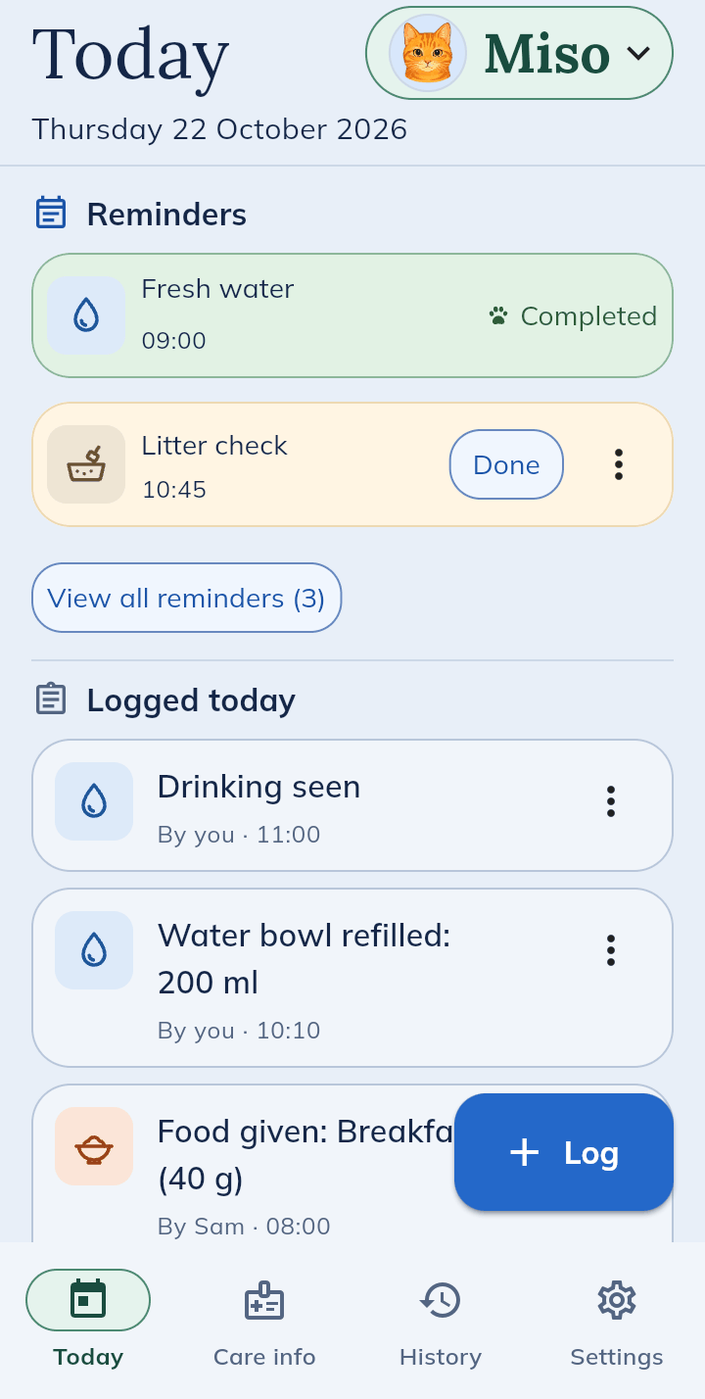
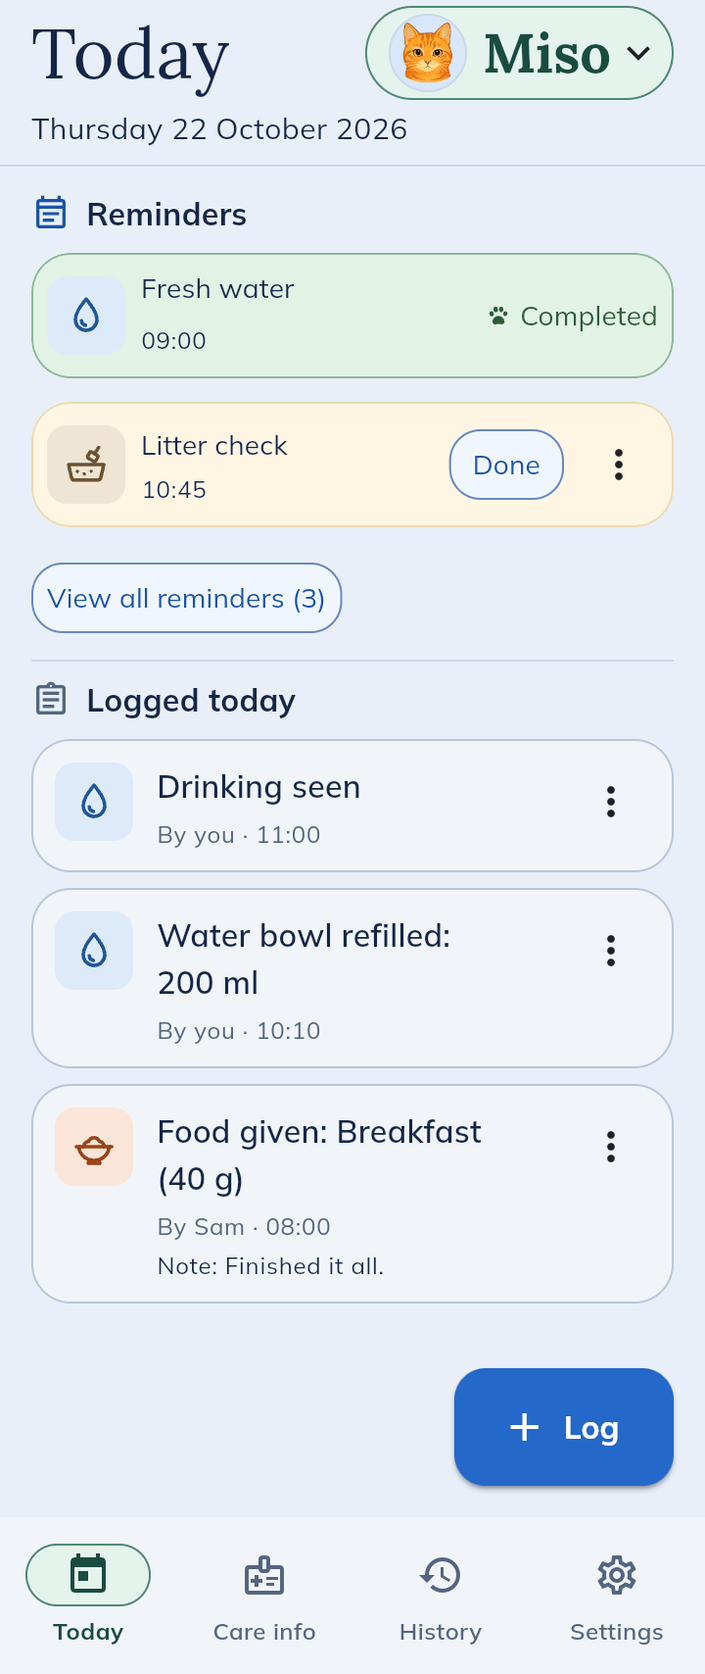
Let testers choose a real or made-up cat and tidy the journey
Testers may use their own cat or a made-up one, with a brief note that
records should carry over but nothing is guaranteed. The status box drops
its date, the test page states the one-day reply once, the guide gets its
friendlier voice back, the week section keeps two moments, the joining page
names the invitation sender, and the hero capture no longer hides a row
under the Log button.

diff --git a/test.html b/test.html
@@ -13,12 +13,12 @@
 <a class="skip" href="#main">Skip to content</a>
 <header class="site-header"><div class="wrap header-inner"><a class="brand" href="index.html" aria-label="OurCat home">OurCat<span aria-hidden="true">.</span></a><nav aria-label="Main navigation"><a href="test.html" aria-current="page">Try OurCat</a><a href="feedback.html">Feedback</a><a href="support.html">Help</a></nav></div></header>
 <main id="main" tabindex="-1" class="wrap reading">
-<div class="page-intro"><h1>Try OurCat on Android</h1><p class="lead">Record your cat’s care and see what your partner or cat-sitter has done. Try it with a made-up cat.</p></div>
-<p class="status"><time datetime="2026-10-23">23 October</time> Taking requests for free Android early access. I’ll reply within a day and send your invitation when the test is ready.</p>
+<div class="page-intro"><h1>Try OurCat on Android</h1><p class="lead">Record your cat’s care and see what your partner or cat-sitter has done. Use your own cat or a made-up one.</p></div>
+<p class="status"><strong>Early access requests are open</strong> It’s free, and invitations go out when the test build is ready.</p>
 <p class="eligibility"><strong>Android with Google Play · Ages 16+</strong><br>Your Google Play country must be the UK, US, Canada or Australia.</p><div class="actions"><a class="button" href="https://docs.google.com/forms/d/e/1FAIpQLSfE7T2NDWCrKjbO0EXnv6gYh4boQH9e-d9MlrtzAwvURb2s_Q/viewform">Request an invitation <span aria-hidden="true">↗</span></a></div><p class="fine">A short Google Form, no sign-in needed. Prefer email? <a href="mailto:mycatapps@gmail.com?subject=OurCat%20test%20invitation&amp;body=Google%20Play%20account%20email%3A%20%0AGoogle%20Play%20country%3A%20%0AAndroid%20phone%20with%20Google%20Play%20%28yes/no%29%3A%20%0AAged%2016%20or%20over%20%28yes/no%29%3A%20%0A%0AOptional%20question%3A%20">Write to me instead</a>.</p><p class="small"><a href="index.html#app-preview">See the app</a> <span class="separator" aria-hidden="true">·</span> Already have an invitation? <a href="join.html">Follow the joining steps.</a></p>
-<section class="section"><h2>What happens next</h2><ol class="steps"><li><h3>Send a request</h3><p>Tell me the email you use for Google Play, then answer a few quick questions about your phone, country and age.</p><p class="step-aside">Testing with a partner or cat-sitter? They need their own Android phone and their own request. Mention each other in the form’s optional question and I’ll invite you together.</p></li><li><h3>Hear back within a day</h3><p>I’ll confirm your request by email within a day. When the test build is ready, I’ll add your email to the private tester list and send everyone the joining link. Sending the form doesn’t install anything or enrol you yet.</p></li><li><h3>Try it when it suits you</h3><p>Start with a made-up cat and a care record. Send feedback whenever you have something to share.</p></li></ol></section>
+<section class="section"><h2>What happens next</h2><ol class="steps"><li><h3>Send a request</h3><p>Tell me the email you use for Google Play, then answer a few quick questions about your phone, country and age.</p><p class="step-aside">Testing with a partner or cat-sitter? They need their own Android phone and their own request. Mention each other in the form’s optional question and I’ll invite you together.</p></li><li><h3>Hear back within a day</h3><p>I’ll email to say I’ve got your request. When the test build is ready, I’ll add your email to the private tester list and send everyone the joining link. Sending the form doesn’t install anything or enrol you yet.</p></li><li><h3>Try it when it suits you</h3><p>Add your cat, or a made-up one, and record something. Send feedback whenever you have something to share.</p></li></ol></section>
 <section class="section"><h2>How much is involved?</h2><p>If you can, stay opted in to the Google Play test for <strong>14 days in a row</strong> and try the app during that time. You don’t need to open it every day or leave a positive review.</p><p>A few thoughts in your own words are enough. The <a href="guide.html">optional things to try</a> cover reminders and shared care.</p><p>Testing is free, voluntary and unpaid. Joining doesn’t start a subscription, and you can stop at any time.</p></section>
-<section class="section"><h2>Questions people ask</h2><details><summary>Do I need to use real information?</summary><div class="answer"><p>No. A made-up cat and made-up care records are enough. Please don’t add real medication details or other people’s contact details just for testing.</p></div></details><details><summary>How long does early access last?</summary><div class="answer"><p>There’s no fixed end date. The plan is for your account and records to carry over into the public app. I can’t promise a launch date or that the service will never be interrupted, but I’ll tell you before your access changes.</p></div></details><details><summary>Can I test with someone I share care with?</summary><div class="answer"><p>Yes, please. Sharing is the bit I most want to see working in real life. Each of you needs an Android phone with Google Play and your own request, using your own Google Play email. Once you’re both in, one of you invites the other from the app.</p></div></details><details><summary>I have an iPhone. Can I take part?</summary><div class="answer"><p>Not yet, sorry. OurCat is Android-only for now. If you share care with someone, you’ll both need Android to try sharing together.</p></div></details><details><summary>Can I test if I don’t have a cat?</summary><div class="answer"><p>Yes. You can try everything I ask with a made-up cat.</p></div></details><details><summary>What if I’m outside the eligible countries or need help?</summary><div class="answer"><p>Email <a href="mailto:mycatapps@gmail.com">mycatapps@gmail.com</a>. I can help with questions, but can’t promise access outside the current test countries.</p></div></details></section>
+<section class="section"><h2>Questions people ask</h2><details><summary>Can I use my real cat?</summary><div class="answer"><p>Yes, it’s up to you. Your own cat or a made-up one both work. It’s a test version, so I can’t guarantee nothing will be lost, but I’ll do my best to keep your records, and the plan is that you carry on using the app as normal once it’s public.</p></div></details><details><summary>How long does early access last?</summary><div class="answer"><p>There’s no fixed end date. I can’t promise a launch date or that the service will never be interrupted, but I’ll tell you before your access changes.</p></div></details><details><summary>Can I test with someone I share care with?</summary><div class="answer"><p>Yes, please. Sharing is the bit I most want to see working in real life. Each of you needs an Android phone with Google Play and your own request, using your own Google Play email. Once you’re both in, one of you invites the other from the app.</p></div></details><details><summary>I have an iPhone. Can I take part?</summary><div class="answer"><p>Not yet, sorry. OurCat is Android-only for now. If you share care with someone, you’ll both need Android to try sharing together.</p></div></details><details><summary>Can I test if I don’t have a cat?</summary><div class="answer"><p>Yes. A made-up cat works for everything I ask.</p></div></details><details><summary>What if I’m outside the eligible countries or need help?</summary><div class="answer"><p>Email <a href="mailto:mycatapps@gmail.com">mycatapps@gmail.com</a>. I can help with questions, but can’t promise access outside the current test countries.</p></div></details></section>
 <aside class="note"><h2>Your request stays private</h2><p>I use your answers to arrange this test. Google Forms stores them in the OurCat account; they aren’t published. You can <a href="privacy.html#test-forms">read about the forms</a> or email me to withdraw your request.</p></aside><p class="fine">OurCat isn’t a veterinary or emergency service. Keep your usual care arrangements for anything urgent.</p>
 
 </main>

diff --git a/index.html b/index.html
@@ -14,11 +14,11 @@
 <header class="site-header"><div class="wrap header-inner"><a class="brand" href="index.html" aria-label="OurCat home">OurCat<span aria-hidden="true">.</span></a><nav aria-label="Main navigation"><a href="test.html">Try OurCat</a><a href="feedback.html">Feedback</a><a href="support.html">Help</a></nav></div></header>
 <main id="main" tabindex="-1" class="wrap home">
 
-<section class="hero" aria-labelledby="home-title"><div class="hero-copy"><h1 id="home-title">Keep track of your cat’s care, together</h1><p class="lead">Record meals, medicine and vet visits, and see what everyone caring for your cat has done.</p><p class="status"><time datetime="2026-10-23">23 October</time> Taking requests for free Android early access. I’ll reply within a day and send your invitation when the test is ready.</p><div class="actions"><a class="button" href="https://docs.google.com/forms/d/e/1FAIpQLSfE7T2NDWCrKjbO0EXnv6gYh4boQH9e-d9MlrtzAwvURb2s_Q/viewform">Request an invitation <span aria-hidden="true">↗</span></a></div><p class="fine">A short Google Form, no sign-in needed. For ages 16+ with an Android phone, in the UK, US, Canada or Australia. Prefer email? <a href="mailto:mycatapps@gmail.com?subject=OurCat%20test%20invitation&amp;body=Google%20Play%20account%20email%3A%20%0AGoogle%20Play%20country%3A%20%0AAndroid%20phone%20with%20Google%20Play%20%28yes/no%29%3A%20%0AAged%2016%20or%20over%20%28yes/no%29%3A%20%0A%0AOptional%20question%3A%20">Write to me instead</a>.</p><p class="small"><a href="test.html">How testing works</a> <span class="separator" aria-hidden="true">·</span> <a href="join.html">Already invited?</a></p></div><figure class="app-preview" id="app-preview"><div class="screen"><img src="assets/today.png" width="720" height="1428" alt="OurCat’s Today screen for Miso, a made-up cat: the 09:00 fresh-water reminder is completed and a litter check is due at 10:45. Below, water entries by you and Sam’s 08:00 breakfast." fetchpriority="high"></div><figcaption>Today shows your entries alongside Sam’s breakfast record. All records shown are made up.</figcaption></figure></section>
+<section class="hero" aria-labelledby="home-title"><div class="hero-copy"><h1 id="home-title">Keep track of your cat’s care, together</h1><p class="lead">Record meals, medicine and vet visits, and see what everyone caring for your cat has done.</p><p class="status"><strong>Early access requests are open</strong> It’s free, on Android. I’ll reply within a day and send your invitation when the test is ready.</p><div class="actions"><a class="button" href="https://docs.google.com/forms/d/e/1FAIpQLSfE7T2NDWCrKjbO0EXnv6gYh4boQH9e-d9MlrtzAwvURb2s_Q/viewform">Request an invitation <span aria-hidden="true">↗</span></a></div><p class="fine">A short Google Form, no sign-in needed. For ages 16+ with an Android phone, in the UK, US, Canada or Australia. Prefer email? <a href="mailto:mycatapps@gmail.com?subject=OurCat%20test%20invitation&amp;body=Google%20Play%20account%20email%3A%20%0AGoogle%20Play%20country%3A%20%0AAndroid%20phone%20with%20Google%20Play%20%28yes/no%29%3A%20%0AAged%2016%20or%20over%20%28yes/no%29%3A%20%0A%0AOptional%20question%3A%20">Write to me instead</a>.</p><p class="small"><a href="test.html">How testing works</a> <span class="separator" aria-hidden="true">·</span> <a href="join.html">Already invited?</a></p></div><figure class="app-preview" id="app-preview"><div class="screen"><img src="assets/today.png" width="720" height="1708" alt="OurCat’s Today screen for Miso, a made-up cat: the 09:00 fresh-water reminder is completed and a litter check is due at 10:45. Below, today’s log: drinking seen and the water bowl refilled by you, and breakfast given by Sam at 08:00 with the note “Finished it all”." fetchpriority="high"></div><figcaption>The Today screen, filled with made-up records</figcaption></figure></section>
 
 <section class="section story" aria-labelledby="story-title"><figure class="print"><img src="assets/tokyo-wall.jpg" width="880" height="1100" alt="Tokyo, a black-and-white cat, sitting upright on a garden wall and looking off to one side." loading="lazy"><figcaption>Tokyo, supervising</figcaption></figure><div class="story-copy"><h2 id="story-title">How OurCat started</h2><p class="story-hello">Hi, I make OurCat. The black-and-white one in the photos is Tokyo.</p><p>Tokyo spends most days on a garden wall keeping an eye on the neighbourhood, or flat out on the bed. Looking after Tokyo still means remembering a surprising number of small things. When was the last vet visit? Has today’s medicine been given? Is that weight going up or down? For a long time, the answers were scattered between my phone, old messages and my memory.</p><p>Then Tokyo had an accident. I needed the vet’s number and the emergency vet’s details straight away, and I didn’t have them in one place. I never want to be in that spot again.</p><p>Sharing the care was the other half. My partner and I both look after Tokyo, and we’d regularly check with each other whether breakfast had happened. When friends cat-sit, I end up writing them a long message about food, medicine and who to ring if something goes wrong.</p><p>OurCat is how I’m fixing that for us. It’s still early days, which is why I’d love your help.</p><figure class="print print-small"><img src="assets/tokyo-stretch.jpg" width="900" height="600" alt="Tokyo stretched out full length on a green bedspread." loading="lazy"><figcaption>Off duty</figcaption></figure></div></section>
 
-<section class="section moments" aria-labelledby="moments-title"><h2 id="moments-title">Where it fits in a normal week</h2><ol class="moment-list"><li><p class="moment-when">Monday, 08:05</p><p>Your partner feeds the cat before work and logs it. You see it on your phone and don’t feed the cat twice.</p></li><li><p class="moment-when">Wednesday, at the vet</p><p>The vet asks about weight and medicine. It’s all in History, and the vet’s number is in Care info if you need it.</p></li><li><p class="moment-when">Friday, away for the weekend</p><p>A friend’s cat-sitting. You give them three days’ access, so they can see the routine and log what they do. When the three days are up, their access ends by itself.</p></li></ol><p class="moments-note">It works fine on your own, too. Sharing is there for when someone else helps out.</p></section>
+<section class="section moments" aria-labelledby="moments-title"><h2 id="moments-title">Where it fits in a normal week</h2><ol class="moment-list"><li><p class="moment-when">Monday, 08:05</p><p>Your partner feeds the cat before work and logs it. You see it on your phone and don’t feed the cat twice.</p></li><li><p class="moment-when">Friday, away for the weekend</p><p>A friend’s cat-sitting. You give them three days’ access, so they can see the routine and log what they do. When the three days are up, their access ends by itself.</p></li></ol><p class="moments-note">It works fine on your own, too. Sharing is there for when someone else helps out.</p></section>
 
 <section class="section invitation-strip"><div><h2>Fancy giving it a go?</h2><p>Use it for a couple of weeks and tell me what’s handy and what’s annoying. A couple of sentences is plenty.</p></div><a class="button" href="test.html">How testing works</a></section>
 <p class="fine end-note">OurCat keeps records; it doesn’t give veterinary advice or monitor your cat. Keep your usual arrangements for anything urgent.</p>

diff --git a/join.html b/join.html
@@ -10,10 +10,10 @@
 <a class="skip" href="#main">Skip to content</a>
 <header class="site-header"><div class="wrap header-inner"><a class="brand" href="index.html" aria-label="OurCat home">OurCat<span aria-hidden="true">.</span></a><nav aria-label="Main navigation"><a href="test.html">Try OurCat</a><a href="feedback.html">Feedback</a><a href="support.html">Help</a></nav></div></header>
 <main id="main" tabindex="-1" class="wrap reading">
-<div class="page-intro"><p class="eyebrow">For invited testers</p><h1>Let’s get you started</h1><p class="lead">You’ll need the joining link from your invitation email and the Google Play account you gave me.</p></div>
+<div class="page-intro"><p class="eyebrow">For invited testers</p><h1>Let’s get you started</h1><p class="lead">You’ll need the joining link from your invitation email, which comes from me at mycatapps@gmail.com, and the Google Play account you gave me.</p></div>
 <aside class="note"><p><strong>Waiting for an invitation?</strong> <a href="test.html">Request one here.</a> The test is private, so you won’t find OurCat in an ordinary Play Store search.</p></aside>
 <section class="section"><h2>Join in four steps</h2><ol class="steps"><li><h3>Check your Google Play email</h3><p>Open the Play Store and tap your profile picture. Make sure it shows the email you gave me. Use that same account when you open the invitation link.</p></li><li><h3>Open your invitation link</h3><p>Tap <strong>Become a tester</strong> on the Google Play page.</p></li><li><h3>Install OurCat</h3><p>Follow the Google Play installation link shown after you join. Availability can take a little while to update.</p></li><li><h3>Create an OurCat account</h3><p>Open the app, sign up with an email and password, and confirm your email. This is separate from the Google account used to install it.</p></li></ol><aside class="note note-ask"><p><strong>One favour:</strong> please stay in the test for 14 days in a row. You don’t have to open the app every day. Google needs a group of testers to stay in that long before an app can go public, so staying opted in helps me get OurCat ready for release.</p></aside></section>
-<section class="section"><h2>Start with one small thing</h2><p>Add a made-up cat, record food or water, then find the entry on Today and in History. That’s enough to get started.</p><p>Testing with your partner or a cat-sitter? Once you’re both in, invite them from the app and check you can both see the same entry.</p><div class="actions"><a class="button" href="guide.html">Optional things to try</a><a class="button secondary" href="feedback.html">Send feedback</a></div></section>
+<section class="section"><h2>Start with one small thing</h2><p>Add your cat, or a made-up one, record food or water, then find the entry on Today and in History. That’s enough to get started.</p><p>Testing with your partner or a cat-sitter? Once you’re both in, invite them from the app and check you can both see the same entry.</p><div class="actions"><a class="button" href="guide.html">Optional things to try</a><a class="button secondary" href="feedback.html">Send feedback</a></div></section>
 <section class="section"><h2>Something not working?</h2><details><summary>Google Play says the app isn’t available to me</summary><div class="answer"><p>Check the Google account in both your browser and the Play Store. It must match the one in your invitation. Also check your Play country is eligible. If those match, reply to the invitation with the message you see.</p></div></details><details><summary>I joined, but can’t install yet</summary><div class="answer"><p>Google Play can take several hours to make a test or update available. Try your invitation link again later. If it still doesn’t work, reply to the invitation email.</p></div></details><details><summary>I can’t find the app in search</summary><div class="answer"><p>Use the joining link in your invitation, then the installation link Google Play shows. Private tests don’t appear in ordinary search.</p></div></details><details><summary>I can’t find my confirmation email</summary><div class="answer"><p>Look for the confirmation email sent after you signed up. Check your spam folder and the address shown in the app. If it hasn’t arrived, choose <strong>Send another link</strong> when the countdown ends, or correct the address if it is wrong. After opening the link, return to OurCat; tap <strong>Check again</strong> if you’re still waiting. If that doesn’t help, email <a href="mailto:mycatapps@gmail.com">mycatapps@gmail.com</a>. Never send your password or confirmation link.</p></div></details><details><summary>How do I stop taking part?</summary><div class="answer"><p>You can leave at any time. Open the joining link and leave the Google Play test. Email me if you’d like test messages to stop. Leaving the test or uninstalling doesn’t delete your OurCat account; <a href="delete-account.html">request account deletion separately</a>.</p></div></details></section>
 </main>
 <footer class="site-footer"><div class="wrap footer-inner"><a class="brand footer-brand" href="index.html">OurCat.</a><nav aria-label="Footer navigation"><a href="contribute.html">Contribute</a><a href="privacy.html">Privacy</a><a href="delete-account.html">Delete account</a><a href="mailto:mycatapps@gmail.com">mycatapps@gmail.com</a></nav><p class="fine">OurCat · mycatapps · 2026</p></div></footer>

diff --git a/guide.html b/guide.html
@@ -10,10 +10,10 @@
 <a class="skip" href="#main">Skip to content</a>
 <header class="site-header"><div class="wrap header-inner"><a class="brand" href="index.html" aria-label="OurCat home">OurCat<span aria-hidden="true">.</span></a><nav aria-label="Main navigation"><a href="test.html">Try OurCat</a><a href="feedback.html">Feedback</a><a href="support.html">Help</a></nav></div></header>
 <main id="main" tabindex="-1" class="wrap reading">
-<div class="page-intro"><p class="eyebrow">Optional tester guide</p><h1>Things to try</h1><p class="lead">Start with one care entry. If you have more time, try a reminder or share your demo household. These exercises are optional.</p></div>
-<aside class="note"><p>Use a made-up cat and demo records. Keep your usual reminders for medication and anything urgent.</p></aside>
-<section class="section"><h2>A first look</h2><ol class="steps"><li><h3>Add a made-up cat</h3><p>Miso is a good name to borrow. Skip any optional details you don’t want to fill in.</p></li><li><h3>Record something</h3><p>Add a food or water entry. Is it clear what to enter and which cat it’s for?</p></li><li><h3>Find it again</h3><p>Look on Today and in History. Can you see what happened and when?</p></li></ol></section>
-<section class="section"><h2>If you’d like to explore more</h2><dl class="feature-list"><div><dt>Try a reminder</dt><dd>Set one for your made-up cat. Notice whether the alert arrives and what happens when you open it. Phone alerts depend on your role, the test version and Android settings.</dd></div><div><dt>Share with your partner, a cat-sitter or another invited tester</dt><dd>Once they’re in the test too, invite them to your demo household. Record some care and compare what each of you sees. Keep invitation codes private.</dd></div><div><dt>Add another cat</dt><dd>Switch between two made-up cats. Is it clear which one you’re recording care for?</dd></div></dl></section>
+<div class="page-intro"><h1>Things to try, if you fancy it</h1><p class="lead">Even five minutes helps. Start with one care entry, and come back to the rest when you have more time.</p></div>
+<aside class="note"><p>Use your own cat or a made-up one, whichever you prefer. Keep your usual reminders for medication and anything urgent.</p></aside>
+<section class="section"><h2>A first look</h2><ol class="steps"><li><h3>Add a cat</h3><p>Your own, or a made-up one (Miso is a good name to borrow). Skip any details you’d rather not fill in.</p></li><li><h3>Record something</h3><p>Add a food or water entry. Is it clear what to enter and which cat it’s for?</p></li><li><h3>Find it again</h3><p>Look on Today and in History. Can you see what happened and when?</p></li></ol></section>
+<section class="section"><h2>If you’d like to explore more</h2><dl class="feature-list"><div><dt>Try a reminder</dt><dd>Set one for your cat. Notice whether the alert arrives and what happens when you open it. Phone alerts depend on your role, the test version and Android settings.</dd></div><div><dt>Share with your partner, a cat-sitter or another invited tester</dt><dd>Once they’re in the test too, invite them from the app. Record some care and compare what each of you sees. Keep invitation codes private.</dd></div><div><dt>Add another cat</dt><dd>Add a second cat, real or made up, and switch between them. Is it clear which one you’re recording care for?</dd></div></dl></section>
 <section class="section"><h2>What I’d love to hear</h2><p>What you tried, what worked, and where you got stuck or hesitated. If something felt pointless, tell me that too.</p><a class="button" href="feedback.html">Share a thought</a></section><p class="fine">If you’ve agreed to a guided usability session, follow those session instructions instead. You don’t need to work through this guide beforehand.</p>
 
 </main>

diff --git a/site.css b/site.css
@@ -60,7 +60,7 @@ details{border-top:1px solid var(--edge)}details:last-child{border-bottom:1px so
 .contents{display:block;margin:34px 0;padding:24px;background:var(--card);border:1px solid var(--edge);border-radius:14px}.contents h2{font-size:1.5rem}.contents ul{columns:2;column-gap:36px;padding-left:1.15em;margin-bottom:0;font-size:1rem}.contents li{break-inside:avoid;margin-bottom:10px}
 .policy-body h2{font-size:1.75rem;margin:44px 0 18px;padding-top:28px;border-top:1px solid var(--divider)}.policy-body{font-size:1.0625rem}.privacy-summary h2{font-size:1.5625rem}.privacy-summary{font-size:1rem}
 .site-footer{border-top:1px solid var(--edge);background:var(--card);padding-block:26px}.footer-inner{display:grid;grid-template-columns:auto 1fr;gap:8px 40px;align-items:center}.footer-inner nav{justify-content:flex-end;gap:6px 22px}.footer-inner nav a{font-size:0.875rem;display:inline-flex;align-items:center;min-height:44px}.footer-inner p{grid-column:1/-1;margin:4px 0 0}.footer-brand{font-size:1.5625rem}
-.status{font-size:1rem;line-height:1.55;margin:0 0 4px;padding:12px 16px;background:var(--card);border:1px solid var(--edge);border-radius:12px;max-width:34em}.status time{display:block;font-weight:700;color:var(--brand);font-size:0.875rem;letter-spacing:.02em}
+.status{font-size:1rem;line-height:1.55;margin:0 0 4px;padding:12px 16px;background:var(--card);border:1px solid var(--edge);border-radius:12px;max-width:34em}.status strong{display:block;font-weight:700;color:var(--brand);font-size:0.875rem;letter-spacing:.02em}
 .steps .step-aside{margin-top:10px;padding-left:14px;border-left:3px solid var(--mint-ink);font-size:1rem;color:var(--ink)}
 .note-ask{border-left-color:var(--brand)}
 .story{display:grid;grid-template-columns:minmax(0,.85fr) minmax(0,1.15fr);gap:72px;align-items:start;margin-top:70px;padding-top:56px}
@@ -70,7 +70,7 @@ details{border-top:1px solid var(--edge)}details:last-child{border-bottom:1px so
 .print figcaption{color:var(--brand);font-weight:600;font-size:0.9375rem;text-align:left;margin:0;padding:10px 4px 12px}
 .print-small{max-width:300px;margin-top:30px;transform:rotate(1.2deg)}
 .moments h2{margin-bottom:28px}
-.moment-list{list-style:none;padding:0;margin:0;display:grid;grid-template-columns:repeat(3,minmax(0,1fr));gap:36px}
+.moment-list{list-style:none;padding:0;margin:0;display:grid;grid-template-columns:repeat(2,minmax(0,1fr));gap:36px;max-width:52rem}
 .moment-list li{padding:0 0 0 18px;margin:0;border-left:3px solid var(--mint-ink)}
 .moment-list p{margin:0}.moment-when{font-family:Lora,Georgia,serif;font-weight:600;font-size:1.25rem;margin-bottom:6px!important}
 .moments-note{margin:30px 0 0;color:var(--muted)}

diff --git a/README.md b/README.md
@@ -15,7 +15,7 @@ No package installation or build is needed (Pillow, if installed, adds a photo-m
 
 The visual system follows OurCat's 22 October 2026 app design: blue actions, navy text, pale blue canvas and mint selection. Lora headings and Mulish body text are served locally as WOFF2; their Open Font Licences are in `assets/fonts/`.
 
-`assets/today.png` is a capture of the app's Today screen. It was made on 22 October 2026 from OurCat source `dcad00cc` as a fake-backend release web build with the `features-guide` demo seed, at 360×740 and 2×. The browser clock was set to 11:00 so the seed's relative times read naturally, and the fresh-water reminder was marked done in the app. The top 26 dp (the FAKE DATA badge) are cropped off, as in the Features guide captures. The records (Miso, Sam) are fictional. It is shown as a development preview, not evidence of a published test build.
+`assets/today.png` is a capture of the app's Today screen. It was recaptured on 23 October 2026 from the same OurCat source `dcad00cc` fake-backend release web build with the `features-guide` demo seed, at 360×880 and 2×. The taller viewport keeps the floating Log button clear of the last entry. The browser clock was set to 22 October, 11:00 so the seed's relative times read naturally, and the fresh-water reminder was marked done in the app. The top 26 dp (the FAKE DATA badge) are cropped off, as in the Features guide captures. The records (Miso, Sam) are fictional. It is shown as a development preview, not evidence of a published test build.
 
 `assets/tokyo-wall.jpg` and `assets/tokyo-stretch.jpg` are the owner's own photos of their cat, Tokyo, used with permission. They were cropped and resized, and every embedded metadata field (including location) was removed. Do not add location-revealing photos, and keep the story general: no vet names, conditions, dates or places.
 
